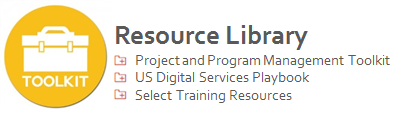
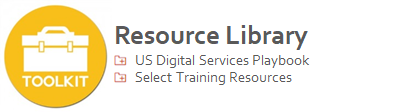
Adjust broken links

Changed region(s): [[0.0, 0.0268, 0.9375, 0.9911]]

diff --git a/4_evaluate.md b/4_evaluate.md
@@ -24,8 +24,6 @@ Establishing an evaluation process will ensure that the benefits anticipated by 
 
 [![Action Item]({{ site.baseurl }}/assets/images/04_figure02.png "Action Item")]({{ site.baseurl }}/action_items)
 
-[![CHHS Governance Resources]({{ site.baseurl }}/assets/images/04_figure03.png "CHHS Governance Resources")]({{ site.baseurl }}/resource_library)
-
 <!-- Pagination -->
 <div class="pagination">
   <a class="pagination-item older" href="{{ site.baseurl }}/implement">&laquo; Prev</a>
